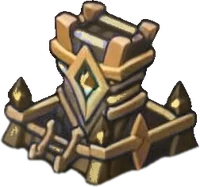
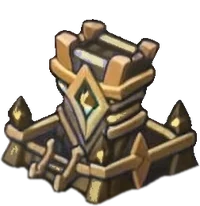
Re-frame the siege map and line up every tower badge
- Crop the empty right and top of the map; give the left and bottom
  real room (edges extended, the original art kept untouched)
- Tower art shares one canvas with the base on the bottom edge, so
  4-star and 5-star towers sit at the same height over their badge
- Every tower gets the same badge size and the 5-segment bar in the
  same spot, centred on the badge

diff --git a/index.html b/index.html
@@ -198,7 +198,7 @@ body.pop-open .strip:not(.open){opacity:.35;transition:opacity .2s}
 .mapbox{position:relative}
 .maphost{position:relative;margin-top:calc(-1 * clamp(24px,5vw,86px))}
 .smap-scroll{position:relative}
-.smap-stage{--grade:saturate(.9) brightness(.8) contrast(1.08);position:relative;width:100%;aspect-ratio:2600/1497;overflow:hidden;
+.smap-stage{--grade:saturate(.9) brightness(.8) contrast(1.08);position:relative;width:100%;aspect-ratio:2600/1688;overflow:hidden;
   -webkit-mask-image:linear-gradient(180deg,transparent 0,#000 7%,#000 93%,transparent 100%);mask-image:linear-gradient(180deg,transparent 0,#000 7%,#000 93%,transparent 100%)}
 .smap-art,.smap-fx,.smap-dim,.smap-vig,.smap-hots{position:absolute;inset:0}
 .smap-art{filter:var(--grade)}
@@ -1165,6 +1165,23 @@ body.theme-signal .smap-stage{--grade:saturate(.93) brightness(.86) contrast(1.0
 #smap-stage.show-all[data-pv="readout"] .hot .hb:not(.hb-hq) .hd img{width:clamp(30px,2.85cqi,40px)!important;height:clamp(30px,2.85cqi,40px)!important;border:1px solid rgba(233,236,239,.16)!important}
 
 
+/* badge + bar: one fixed row under every tower. Same badge box for all guilds, bar centred on it, same gap */
+#smap-stage .hot:not([data-k^="HQ"]) .nb{left:calc(50% - 24px - 22%);top:82%;bottom:auto;width:24px;height:24px;transform:none}
+#smap-stage .hot.gB:not([data-k^="HQ"]) .nb{height:24px;clip-path:polygon(0 0,100% 0,100% 64%,50% 100%,0 64%)}
+#smap-stage .hot.gB:not([data-k^="HQ"]) .nb span{height:78%}
+#smap-stage .hot.gR .nb{clip-path:circle(50%)}
+#smap-stage .hot.gY .nb{clip-path:inset(0)}
+#smap-stage .hot .nb span{font-size:12.5px}
+#smap-stage .hot .tk{left:calc(50% - 24px - 22% + 27px);top:calc(82% + 9px);transform:none;gap:2px;align-items:center}
+#smap-stage .hot .tk b{width:8px;height:6px;flex:none;box-shadow:0 0 0 1px rgba(16,6,14,.85)}
+@media (max-width:700px){
+  #smap-stage .hot:not([data-k^="HQ"]) .nb{width:21px;height:21px;left:calc(50% - 21px - 22%)}
+  #smap-stage .hot.gB:not([data-k^="HQ"]) .nb{height:21px}
+  #smap-stage .hot .nb span{font-size:11px}
+  #smap-stage .hot .tk{left:calc(50% - 21px - 22% + 24px);top:calc(82% + 8px)}
+  #smap-stage .hot .tk b{width:6px;height:5px}
+}
+
 /* tower panel leader line (desktop) */
 .tp-link{position:absolute;left:0;top:0;width:100%;height:100%;overflow:visible;pointer-events:none;z-index:11;display:none}
 .tp-link.on{display:block}
@@ -1284,9 +1301,9 @@ const IMG_BASE='https://sw-rockbottom.com/images/';
    Which defense belongs to which tower is not here: it comes from each team's "tower" code in the season data.
    Per season: stars = bases that are 4-star (every other base with a defense is 5-star), special = Special Defense bases. */
 const SIEGE_MAP={
-  img:'images/siege-map-crop.jpg', video:'', ratio:2600/1497,
+  img:'images/siege-map-crop.jpg', video:'', ratio:2600/1688,
   /* the part of the full map shown, in % of the full map (left, top, right, bottom); tower spots below are full-map % */
-  view:[0,17,78,100],
+  view:[-4.565,22.5,66.5,107.75],
   guild:{B:'Blue',R:'Red',Y:'Yellow'},
   /* towers out of play on this map: drawn grey, not clickable */
   /* towers kept empty on the map even if a team lists them */
@@ -1491,7 +1508,7 @@ function renderMap(){
   });});
   Object.entries((SM.place||{})[state.sn]||{}).forEach(([k,ids])=>ids.forEach(u=>{ const [sid,i]=u.split('-'); if(S().sections.some(x=>x.id===sid&&x.teams[+i])) (towerDefs[k]=towerDefs[k]||[]).includes(u)||(towerDefs[k]=towerDefs[k]||[]).push(u); }));
   const host=$('#maphost'), keys=Object.keys(SM.towers).filter(k=>!isClosed(k));
-  host.innerHTML=`<div class="smap-scroll" id="smap-scroll"><div class="smap-stage run${$('#smap-badges').getAttribute('aria-pressed')==='true'?' show-all':''}" id="smap-stage" data-pv="readout"><div class="smap-art"><img class="smap-img" src="${SM.img}" width="2600" height="1497" alt="Season ${esc(state.sn)} siege map, with the defense placed on each Blue, Red and Yellow tower" decoding="async">${(reduce||saveData||!SM.video)?'':'<video class="smap-vid" muted loop playsinline preload="none" aria-hidden="true" tabindex="-1"></video>'}</div><div class="smap-fx" aria-hidden="true">${reduce?'':fxHTML()}</div><div class="smap-dim" aria-hidden="true"></div><div class="smap-hots" id="hots"><svg class="leads" id="leads" aria-hidden="true"></svg>${keys.map(hotHTML).join('')}</div><div class="smap-px" aria-hidden="true"></div><div class="smap-vig" aria-hidden="true"></div><i class="smap-brk tl" aria-hidden="true"></i><i class="smap-brk br" aria-hidden="true"></i><i class="smap-brk tr" aria-hidden="true"></i><i class="smap-brk bl" aria-hidden="true"></i><i class="smap-hud" aria-hidden="true"><b>Siege map // Season ${esc(state.sn)}</b><b>${Object.keys(towerDefs).filter(k=>!isClosed(k)&&SM.towers[k]).length} bases held</b></i></div></div>`;
+  host.innerHTML=`<div class="smap-scroll" id="smap-scroll"><div class="smap-stage run${$('#smap-badges').getAttribute('aria-pressed')==='true'?' show-all':''}" id="smap-stage" data-pv="readout"><div class="smap-art"><img class="smap-img" src="${SM.img}" width="2600" height="1688" alt="Season ${esc(state.sn)} siege map, with the defense placed on each Blue, Red and Yellow tower" decoding="async">${(reduce||saveData||!SM.video)?'':'<video class="smap-vid" muted loop playsinline preload="none" aria-hidden="true" tabindex="-1"></video>'}</div><div class="smap-fx" aria-hidden="true">${reduce?'':fxHTML()}</div><div class="smap-dim" aria-hidden="true"></div><div class="smap-hots" id="hots"><svg class="leads" id="leads" aria-hidden="true"></svg>${keys.map(hotHTML).join('')}</div><div class="smap-px" aria-hidden="true"></div><div class="smap-vig" aria-hidden="true"></div><i class="smap-brk tl" aria-hidden="true"></i><i class="smap-brk br" aria-hidden="true"></i><i class="smap-brk tr" aria-hidden="true"></i><i class="smap-brk bl" aria-hidden="true"></i><i class="smap-hud" aria-hidden="true"><b>Siege map // Season ${esc(state.sn)}</b><b>${Object.keys(towerDefs).filter(k=>!isClosed(k)&&SM.towers[k]).length} bases held</b></i></div></div>`;
   const stage=$('#smap-stage');
   if('IntersectionObserver' in window) new IntersectionObserver(es=>es.forEach(e=>stage.classList.toggle('run',e.isIntersecting)),{threshold:0}).observe(stage);
   const vid=$('.smap-vid',stage);

diff --git a/siege-defense.html b/siege-defense.html
@@ -198,7 +198,7 @@ body.pop-open .strip:not(.open){opacity:.35;transition:opacity .2s}
 .mapbox{position:relative}
 .maphost{position:relative;margin-top:calc(-1 * clamp(24px,5vw,86px))}
 .smap-scroll{position:relative}
-.smap-stage{--grade:saturate(.9) brightness(.8) contrast(1.08);position:relative;width:100%;aspect-ratio:2600/1497;overflow:hidden;
+.smap-stage{--grade:saturate(.9) brightness(.8) contrast(1.08);position:relative;width:100%;aspect-ratio:2600/1688;overflow:hidden;
   -webkit-mask-image:linear-gradient(180deg,transparent 0,#000 7%,#000 93%,transparent 100%);mask-image:linear-gradient(180deg,transparent 0,#000 7%,#000 93%,transparent 100%)}
 .smap-art,.smap-fx,.smap-dim,.smap-vig,.smap-hots{position:absolute;inset:0}
 .smap-art{filter:var(--grade)}
@@ -1165,6 +1165,23 @@ body.theme-signal .smap-stage{--grade:saturate(.93) brightness(.86) contrast(1.0
 #smap-stage.show-all[data-pv="readout"] .hot .hb:not(.hb-hq) .hd img{width:clamp(30px,2.85cqi,40px)!important;height:clamp(30px,2.85cqi,40px)!important;border:1px solid rgba(233,236,239,.16)!important}
 
 
+/* badge + bar: one fixed row under every tower. Same badge box for all guilds, bar centred on it, same gap */
+#smap-stage .hot:not([data-k^="HQ"]) .nb{left:calc(50% - 24px - 22%);top:82%;bottom:auto;width:24px;height:24px;transform:none}
+#smap-stage .hot.gB:not([data-k^="HQ"]) .nb{height:24px;clip-path:polygon(0 0,100% 0,100% 64%,50% 100%,0 64%)}
+#smap-stage .hot.gB:not([data-k^="HQ"]) .nb span{height:78%}
+#smap-stage .hot.gR .nb{clip-path:circle(50%)}
+#smap-stage .hot.gY .nb{clip-path:inset(0)}
+#smap-stage .hot .nb span{font-size:12.5px}
+#smap-stage .hot .tk{left:calc(50% - 24px - 22% + 27px);top:calc(82% + 9px);transform:none;gap:2px;align-items:center}
+#smap-stage .hot .tk b{width:8px;height:6px;flex:none;box-shadow:0 0 0 1px rgba(16,6,14,.85)}
+@media (max-width:700px){
+  #smap-stage .hot:not([data-k^="HQ"]) .nb{width:21px;height:21px;left:calc(50% - 21px - 22%)}
+  #smap-stage .hot.gB:not([data-k^="HQ"]) .nb{height:21px}
+  #smap-stage .hot .nb span{font-size:11px}
+  #smap-stage .hot .tk{left:calc(50% - 21px - 22% + 24px);top:calc(82% + 8px)}
+  #smap-stage .hot .tk b{width:6px;height:5px}
+}
+
 /* tower panel leader line (desktop) */
 .tp-link{position:absolute;left:0;top:0;width:100%;height:100%;overflow:visible;pointer-events:none;z-index:11;display:none}
 .tp-link.on{display:block}
@@ -1284,9 +1301,9 @@ const IMG_BASE='https://sw-rockbottom.com/images/';
    Which defense belongs to which tower is not here: it comes from each team's "tower" code in the season data.
    Per season: stars = bases that are 4-star (every other base with a defense is 5-star), special = Special Defense bases. */
 const SIEGE_MAP={
-  img:'images/siege-map-crop.jpg', video:'', ratio:2600/1497,
+  img:'images/siege-map-crop.jpg', video:'', ratio:2600/1688,
   /* the part of the full map shown, in % of the full map (left, top, right, bottom); tower spots below are full-map % */
-  view:[0,17,78,100],
+  view:[-4.565,22.5,66.5,107.75],
   guild:{B:'Blue',R:'Red',Y:'Yellow'},
   /* towers out of play on this map: drawn grey, not clickable */
   /* towers kept empty on the map even if a team lists them */
@@ -1491,7 +1508,7 @@ function renderMap(){
   });});
   Object.entries((SM.place||{})[state.sn]||{}).forEach(([k,ids])=>ids.forEach(u=>{ const [sid,i]=u.split('-'); if(S().sections.some(x=>x.id===sid&&x.teams[+i])) (towerDefs[k]=towerDefs[k]||[]).includes(u)||(towerDefs[k]=towerDefs[k]||[]).push(u); }));
   const host=$('#maphost'), keys=Object.keys(SM.towers).filter(k=>!isClosed(k));
-  host.innerHTML=`<div class="smap-scroll" id="smap-scroll"><div class="smap-stage run${$('#smap-badges').getAttribute('aria-pressed')==='true'?' show-all':''}" id="smap-stage" data-pv="readout"><div class="smap-art"><img class="smap-img" src="${SM.img}" width="2600" height="1497" alt="Season ${esc(state.sn)} siege map, with the defense placed on each Blue, Red and Yellow tower" decoding="async">${(reduce||saveData||!SM.video)?'':'<video class="smap-vid" muted loop playsinline preload="none" aria-hidden="true" tabindex="-1"></video>'}</div><div class="smap-fx" aria-hidden="true">${reduce?'':fxHTML()}</div><div class="smap-dim" aria-hidden="true"></div><div class="smap-hots" id="hots"><svg class="leads" id="leads" aria-hidden="true"></svg>${keys.map(hotHTML).join('')}</div><div class="smap-px" aria-hidden="true"></div><div class="smap-vig" aria-hidden="true"></div><i class="smap-brk tl" aria-hidden="true"></i><i class="smap-brk br" aria-hidden="true"></i><i class="smap-brk tr" aria-hidden="true"></i><i class="smap-brk bl" aria-hidden="true"></i><i class="smap-hud" aria-hidden="true"><b>Siege map // Season ${esc(state.sn)}</b><b>${Object.keys(towerDefs).filter(k=>!isClosed(k)&&SM.towers[k]).length} bases held</b></i></div></div>`;
+  host.innerHTML=`<div class="smap-scroll" id="smap-scroll"><div class="smap-stage run${$('#smap-badges').getAttribute('aria-pressed')==='true'?' show-all':''}" id="smap-stage" data-pv="readout"><div class="smap-art"><img class="smap-img" src="${SM.img}" width="2600" height="1688" alt="Season ${esc(state.sn)} siege map, with the defense placed on each Blue, Red and Yellow tower" decoding="async">${(reduce||saveData||!SM.video)?'':'<video class="smap-vid" muted loop playsinline preload="none" aria-hidden="true" tabindex="-1"></video>'}</div><div class="smap-fx" aria-hidden="true">${reduce?'':fxHTML()}</div><div class="smap-dim" aria-hidden="true"></div><div class="smap-hots" id="hots"><svg class="leads" id="leads" aria-hidden="true"></svg>${keys.map(hotHTML).join('')}</div><div class="smap-px" aria-hidden="true"></div><div class="smap-vig" aria-hidden="true"></div><i class="smap-brk tl" aria-hidden="true"></i><i class="smap-brk br" aria-hidden="true"></i><i class="smap-brk tr" aria-hidden="true"></i><i class="smap-brk bl" aria-hidden="true"></i><i class="smap-hud" aria-hidden="true"><b>Siege map // Season ${esc(state.sn)}</b><b>${Object.keys(towerDefs).filter(k=>!isClosed(k)&&SM.towers[k]).length} bases held</b></i></div></div>`;
   const stage=$('#smap-stage');
   if('IntersectionObserver' in window) new IntersectionObserver(es=>es.forEach(e=>stage.classList.toggle('run',e.isIntersecting)),{threshold:0}).observe(stage);
   const vid=$('.smap-vid',stage);
